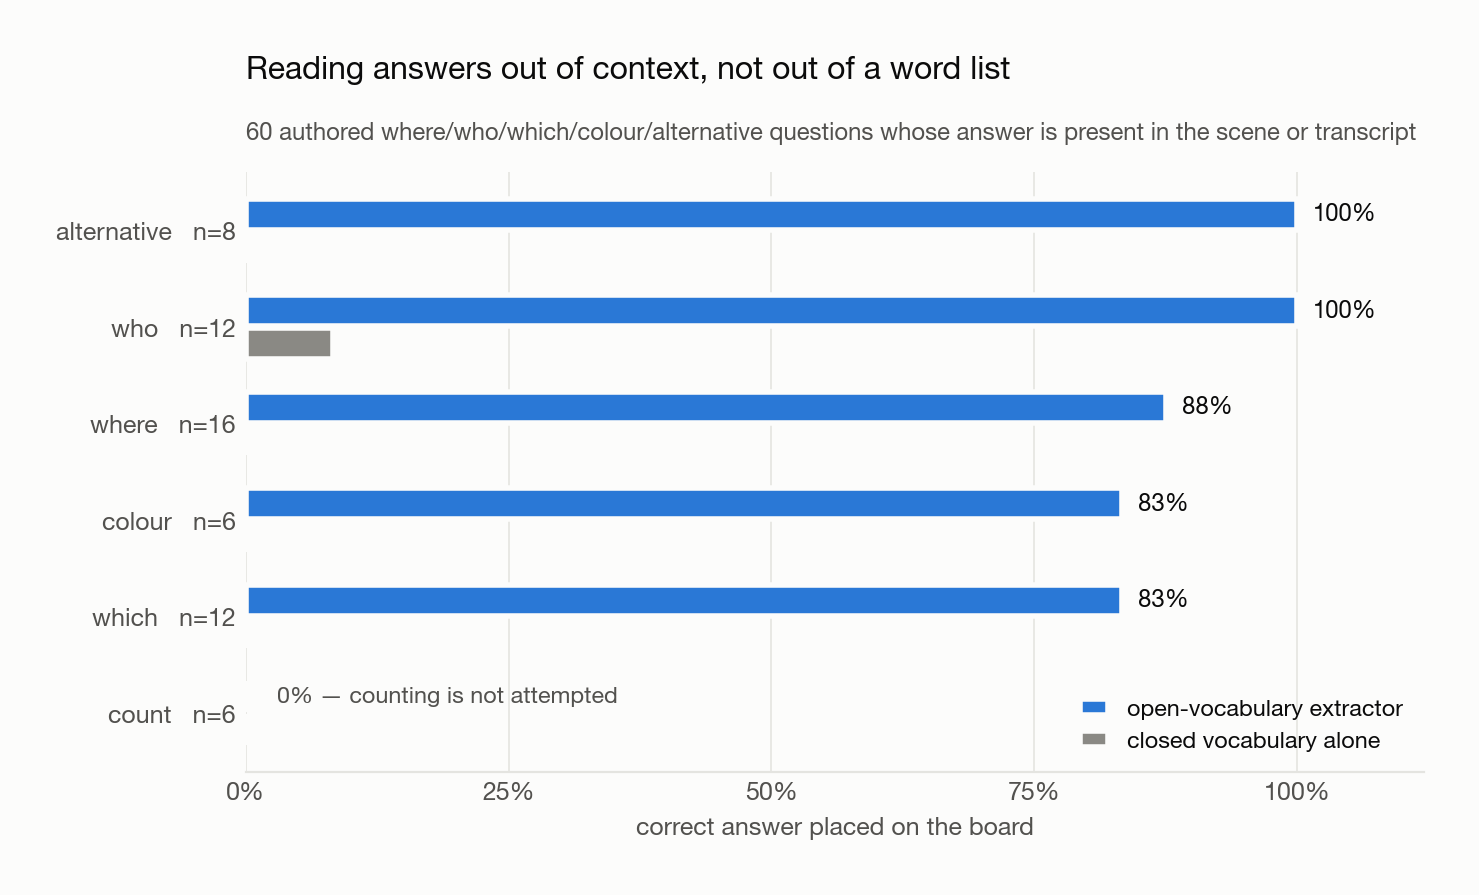
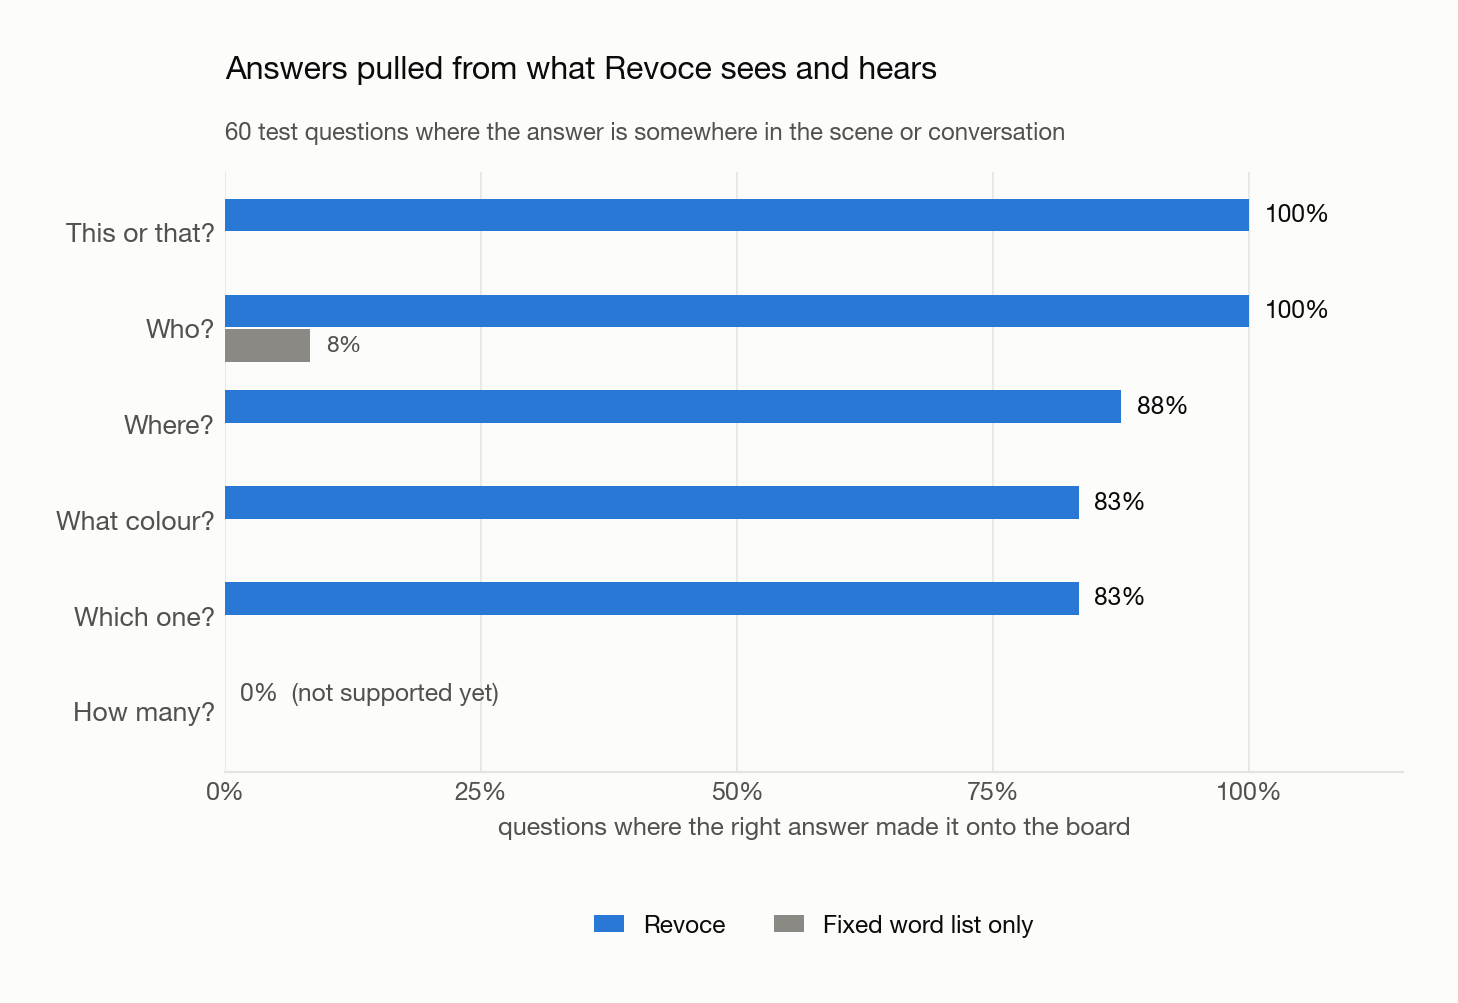
make the question-type and OpenVINO charts easier to read

diff --git a/docs/figures/make_figures.py b/docs/figures/make_figures.py
@@ -166,38 +166,29 @@ def fig_diversity(t, dark):
 def fig_inversion(t, dark):
     hb = json.load(open(ART / "head_bench_tanishlaptop.json"))
     intel = {r["name"]: r["p50_ms"] for r in hb["results"]}
-    i_torch = intel["torch CPU (student.pt)"]
-    i_ov = intel["OpenVINO FP32 IR"]
-    m_torch, m_ov = 0.015, 0.025          # mac/intel/BENCHMARKS.md, quiet run
+    i_ratio = intel["torch CPU (student.pt)"] / intel["OpenVINO FP32 IR"]
+    m_ratio = 0.015 / 0.025          # mac/intel/BENCHMARKS.md, quiet run
 
-    rows = [("Apple M4\nARM CPU plugin", m_torch / m_ov, m_torch, m_ov),
-            ("Intel Core Ultra 9 185H\nnative CPU plugin", i_torch / i_ov, i_torch, i_ov)]
+    rows = [("Apple M4", m_ratio), ("Intel Core Ultra 9", i_ratio)]
     style(t)
-    fig, ax = plt.subplots(figsize=(7.8, 3.4))
+    fig, ax = plt.subplots(figsize=(7.4, 3.2))
     ys = [1, 0]
-    for y, (lab, ratio, tt, ov) in zip(ys, rows):
+    for y, (lab, ratio) in zip(ys, rows):
         col = t["s3"] if ratio >= 1 else t["s2"]
-        ax.barh([y], [ratio - 1], left=1, height=.34, color=col, zorder=3,
-                edgecolor=t["surface"], linewidth=2)
-        mid = (1 + ratio) / 2
-        # ratio above the bar, raw timings below it -- nothing sits beside the
-        # bar end, where it would collide with the y tick labels
-        ax.text(mid, y + .26, f"{ratio:.2f}x  " + ("faster" if ratio >= 1 else "slower"),
-                va="bottom", ha="center", fontsize=10.5, fontweight="600",
-                color=t["primary"])
-        ax.text(mid, y - .26, f"{tt:.4f} ms torch   {ov:.4f} ms OpenVINO",
-                va="top", ha="center", fontsize=8.1, color=t["secondary"])
-    ax.axvline(1, color=t["primary"], lw=1.2, zorder=4)
-    ax.text(1, 1.68, "parity with PyTorch", ha="center", fontsize=8.2,
-            color=t["secondary"])
-    ax.set_yticks(ys); ax.set_yticklabels([r[0] for r in rows], fontsize=9)
-    ax.set_xlim(0.42, 3.05); ax.set_ylim(-.62, 1.82)
-    ax.set_xticks([0.5, 1, 2, 3]); ax.set_xticklabels(["0.5x", "1x", "2x", "3x"])
+        ax.barh([y], [ratio], height=.5, color=col, zorder=3)
+        word = "faster" if ratio >= 1 else "slower"
+        ax.text(max(ratio, 1) + .06, y, f"{ratio:.2f}x  ({word})", va="center", ha="left",
+                fontsize=10.5, fontweight="600", color=t["primary"])
+    ax.axvline(1, color=t["secondary"], lw=1, ls=(0, (4, 3)), zorder=4)
+    ax.text(1.04, 1.52, "same speed as PyTorch", ha="left", va="bottom",
+            fontsize=8.4, color=t["secondary"])
+    ax.set_yticks(ys); ax.set_yticklabels([r[0] for r in rows], fontsize=10)
+    ax.set_xlim(0, 3.4); ax.set_ylim(-.5, 1.75)
+    ax.set_xticks([0, 1, 2, 3]); ax.set_xticklabels(["0x", "1x", "2x", "3x"])
     ax.grid(axis="y", visible=False)
     ax.spines["left"].set_visible(False)
-    title(ax, "The same IR, converted once, inverts by CPU vendor",
-          "Student head, 500 iterations after 50 warmup. Ratio is PyTorch ÷ OpenVINO "
-          "on the same machine.", t)
+    title(ax, "The same model runs faster on Intel, slower on Mac",
+          "How many times faster OpenVINO runs than PyTorch on each machine", t)
     save(fig, "inversion", dark)
 
 
@@ -207,33 +198,36 @@ def fig_inversion(t, dark):
 def fig_deictic(t, dark):
     d = json.load(open(P4 / "phase4_results.json"))["deictic"]
     by = d["by_question_type"]
+    names = {"alternative": "This or that?", "who": "Who?", "where": "Where?",
+             "colour": "What colour?", "which": "Which one?", "count": "How many?"}
     order = sorted(by, key=lambda k: (-by[k]["student_answer_hit"], k))
     style(t)
     fig, ax = plt.subplots(figsize=(7.6, 3.9))
     y = np.arange(len(order))[::-1]
     open_v = [by[k]["student_answer_hit"] for k in order]
     closed = [by[k]["closed_answer_hit"] for k in order]
-    ax.barh(y + .17, open_v, height=.32, color=t["s1"], zorder=3,
-            edgecolor=t["surface"], linewidth=2, label="open-vocabulary extractor")
-    ax.barh(y - .17, closed, height=.32, color=t["muted"], zorder=3,
-            edgecolor=t["surface"], linewidth=2, label="closed vocabulary alone")
-    for yy, v in zip(y, open_v):
-        if v > 0:
-            ax.text(v + .015, yy + .17, f"{v:.0%}", va="center", fontsize=8.6,
-                    fontweight="600", color=t["primary"])
-    ax.text(.03, y[order.index("count")] + .17, "0% — counting is not attempted",
-            va="center", fontsize=8.4, color=t["secondary"], style="italic")
+    ax.barh(y + .18, open_v, height=.34, color=t["s1"], zorder=3, label="Revoce")
+    ax.barh(y - .18, closed, height=.34, color=t["muted"], zorder=3,
+            label="Fixed word list only")
+    for yy, v, c, k in zip(y, open_v, closed, order):
+        txt = f"{v:.0%}" if k != "count" else "0%  (not supported yet)"
+        ax.text(v + .015, yy + .18, txt, va="center", fontsize=8.8,
+                fontweight="600" if v else "normal",
+                color=t["primary"] if v else t["secondary"])
+        if c > 0:
+            ax.text(c + .015, yy - .18, f"{c:.0%}", va="center", fontsize=8.2,
+                    color=t["secondary"])
     ax.set_yticks(y)
-    ax.set_yticklabels([f"{k}   n={by[k]['n']}" for k in order], fontsize=9)
-    ax.set_xlim(0, 1.12); ax.set_xticks(np.arange(0, 1.01, .25))
+    ax.set_yticklabels([names.get(k, k) for k in order], fontsize=9.6)
+    ax.set_xlim(0, 1.15); ax.set_xticks(np.arange(0, 1.01, .25))
     ax.set_xticklabels([f"{v:.0%}" for v in np.arange(0, 1.01, .25)])
-    ax.set_xlabel("correct answer placed on the board")
+    ax.set_xlabel("questions where the right answer made it onto the board")
     ax.grid(axis="y", visible=False)
     ax.spines["left"].set_visible(False)
-    ax.legend(loc="lower right", frameon=False, fontsize=8.4, handlelength=1.2)
-    title(ax, "Reading answers out of context, not out of a word list",
-          "60 authored where/who/which/colour/alternative questions whose answer "
-          "is present in the scene or transcript", t)
+    ax.legend(loc="upper center", bbox_to_anchor=(.5, -.2), ncol=2, frameon=False,
+              fontsize=8.8, handlelength=1.2)
+    title(ax, "Answers pulled from what Revoce sees and hears",
+          "60 test questions where the answer is somewhere in the scene or conversation", t)
     save(fig, "deictic", dark)
 
 
